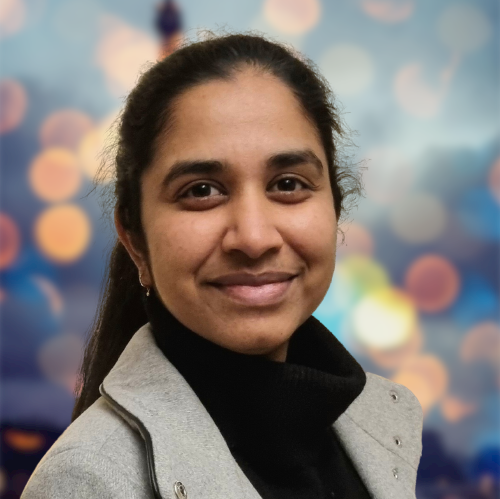
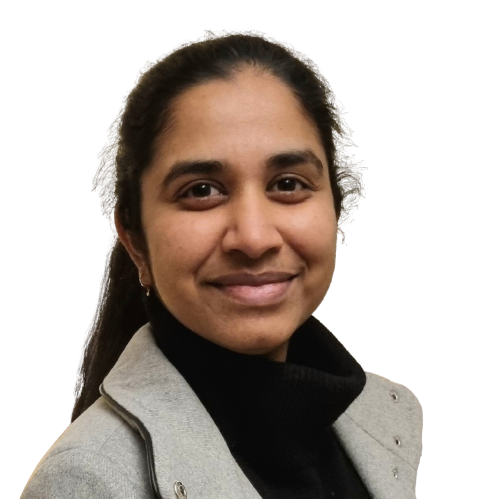
Removed image background

diff --git a/src/components/Home.vue b/src/components/Home.vue
@@ -20,13 +20,9 @@
             </div>
 
             <div class="about__container-image">
-                <img src="/images/judith_image.png" alt="judith-image">
+                <img :src="page.preview.image" alt="judith-image">
             </div>
-        </div>  
-
-        
-
-         
+        </div>    
     </main> 
 </template>
 
